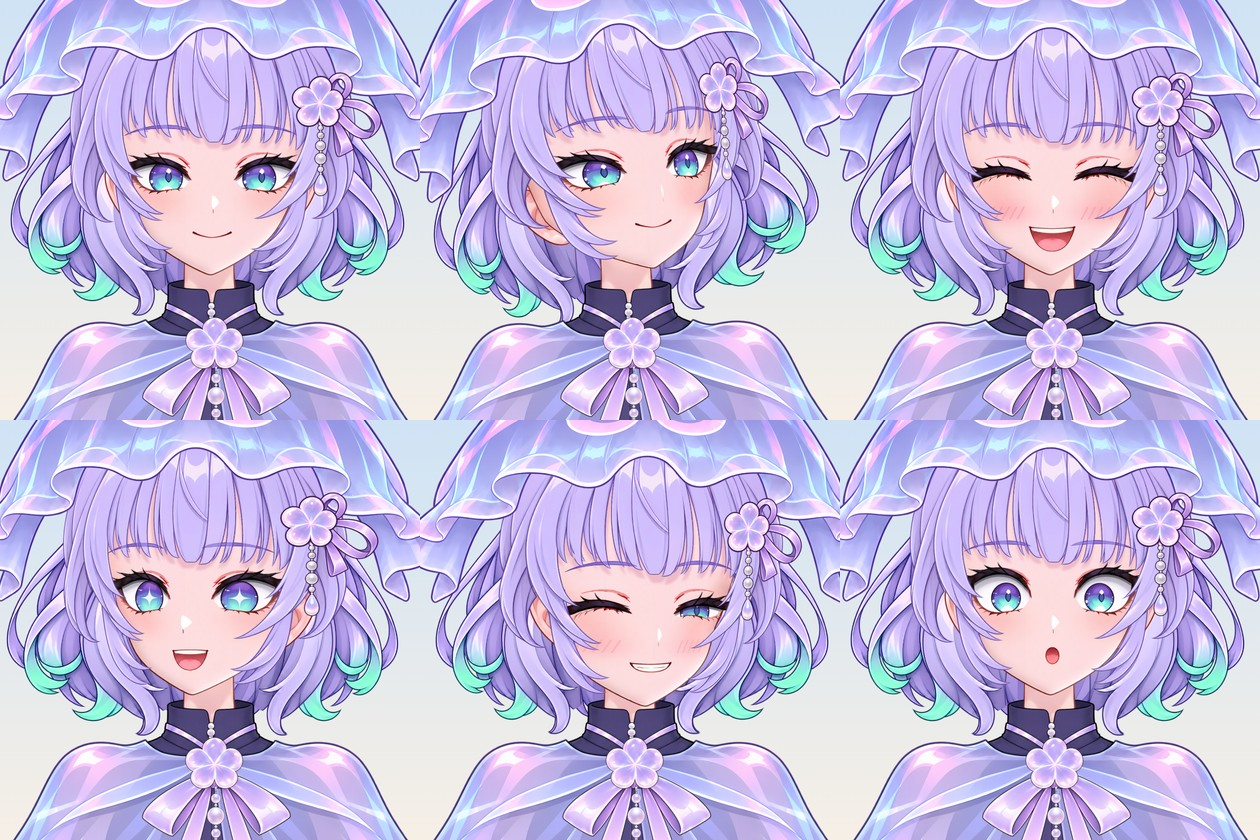
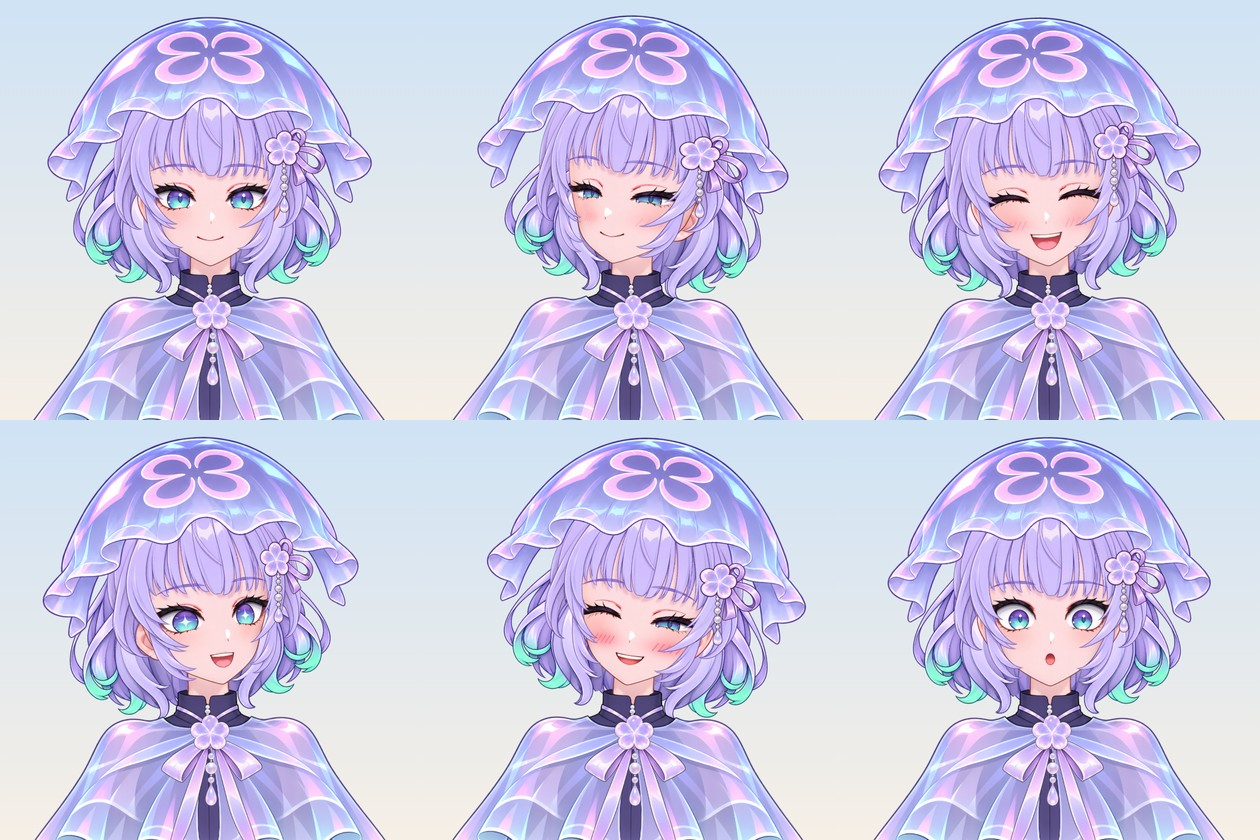
README を 2 体のモデルとデモに合わせて書き直し、説明の絵を撮り直す
- 先頭に、2 体が動いている絵（docs/images/demo.webp）と、ブラウザで試せるデモへのリンク
- 同梱のモデルの章（kurage02・chiwa）、モデルの切り替え、分かっている課題を今の状態に
- 画面写真と、表情の一覧を、今のモデルと画面で撮り直す
- 文書の「同梱は kurage02 だけ」という記述を、2 体用に直す
- ファイルを置くだけの場所（GitHub Pages）で動かすための .nojekyll

diff --git a/partsgen/README.md b/partsgen/README.md
@@ -14,6 +14,7 @@
 | `KNOWHOW.md` | 品質の基準、確認のしかた、失敗と直し方 |
 | `UPSCALER.md` | 拡大に使う Real-ESRGAN の用意 |
 | `chars/kurage02/` | 手本のキャラの設定（`char.json`）と、画像生成への指示文（`prompts/`） |
+| `chars/chiwa/` | 絵 1 枚から、この手順で最後まで通して作ったキャラの、設定・指示文と、作った記録（`NOTES.md`。見たこと・測った数字・決めた値と理由・つまずいた所） |
 | `chars/_template/` | 新しいキャラの出発点 |
 
 ## 要るもの
@@ -95,10 +96,11 @@ python3 -m venv .venv
 - 自分で作ったモデル・設定・起動用の bat（`models/<キャラ名>/`・`partsgen/chars/<キャラ名>/`・`start_<キャラ名>.bat`）は、`.gitignore` で git に入らないようにしてあります（このリポジトリを fork して公開しても、うっかり入らないように）。入れるときは `git add -f`。
 - 起動: `start_<キャラ名>.bat`（Windows）。どの OS でも `python tools/serve.py --model <キャラ名>`。
 - 設定と指示文: `partsgen/chars/<キャラ名>/`。作業フォルダ（既定 `%LOCALAPPDATA%\keshin2d_work\<キャラ名>`。上の「作業フォルダ」）は、作り直しに使うので消さずに残してください。
-- 同梱の `kurage02` は、モデル（`models/kurage02/`）と設定・指示文（`chars/kurage02/`）だけを入れてあります。元の絵と、描かせた絵（作業フォルダの中身）は入れていないので、`kurage02` を、このリポジトリだけから作り直すことはできません（設定と指示文の書き方の手本として使います）。
+- 同梱の `kurage02`・`chiwa` は、モデル（`models/<名前>/`）と設定・指示文（`chars/<名前>/`）だけを入れてあります。元の絵と、描かせた絵（作業フォルダの中身）は入れていないので、この 2 体を、このリポジトリだけから作り直すことはできません（設定と指示文の書き方の手本として使います）。
+- 画面の上の「モデルを選ぶ欄」には、`python tools/serve.py`（`start.bat`・`start.sh`）で開いていれば、自分で作ったモデルも、自動で出ます。サーバーを使わない置き方（GitHub Pages など）で出すときは、`models/index.json` に、名前と表示名を 1 行足します。
 
 ## 絵の権利について
 
 - 元にする絵は、自分が権利を持つ絵か、使う許可を得た絵にしてください。
 - 画像生成で描かせた絵の扱いは、使ったサービスの利用規約に従います。
-- 同梱の `kurage02`（モデル・設定・指示文）は、プログラムと同じ MIT です。手本にしても、そのまま使ってもかまいません。
+- 同梱の `kurage02`・`chiwa`（モデル・設定・指示文）は、プログラムと同じ MIT です。手本にしても、そのまま使ってもかまいません。

diff --git a/partsgen/KNOWHOW.md b/partsgen/KNOWHOW.md
@@ -1,7 +1,7 @@
 # ノウハウ集: 確認のしかた・守ること・失敗と直し方
 
 キャラを作る途中で「見たつもりで、見えていなかった」「直したつもりで、別の所が崩れた」出来事から来た決まりを、話題ごとに並べてある。手順そのものは `WORKFLOW.md`。
-文中のキャラ名（`kurage`・`tomari02`・`pink02`・`neon`・`chiwa` など）は、開発中に作ったキャラ（このリポジトリには入っていない）。`kurage02` は同梱の手本。
+文中のキャラ名（`kurage`・`tomari02`・`pink02`・`neon`・`hayate`・`kurochiwa` など）は、開発中に作ったキャラ（このリポジトリには入っていない）。`kurage02` は同梱の手本、`chiwa` は、絵 1 枚から通して作った同梱のモデル（記録は `partsgen/chars/chiwa/NOTES.md`）。
 
 - うまくいった**手順**は `WORKFLOW.md`（工程表・章・合格の目安）へ。**なぜそうするか・何を見落としたか**は、ここへ。1 行に、決まりと、そのもとになった出来事を書く（出来事が無い決まりは、守られない）。
 - 作り方を変えたら、専用の章を足すだけでなく、**工程表（`WORKFLOW.md` の段階 0〜8）・`MASTER_PROMPT.md`・ひな形（`chars/_template`）・合格の目安**の 4 か所を直す。指示文 1 つで通したとき、その作りになるように（キーの形の手順が、専用の章にしか無く、通すと古い作り方になっていたことがある）。

diff --git a/THIRD_PARTY_NOTICES.md b/THIRD_PARTY_NOTICES.md
@@ -1,8 +1,8 @@
 # 使わせてもらっている物 / Third-Party Notices
 
-このリポジトリの物は、下に挙げた物のほかは、どれも MIT License（[LICENSE](LICENSE)）です。同梱のモデル `kurage02`（`models/kurage02/` の絵と `model.json`）と、`docs/images/` の絵も含みます。
+このリポジトリの物は、下に挙げた物のほかは、どれも MIT License（[LICENSE](LICENSE)）です。同梱のモデル `kurage02`・`chiwa`（`models/kurage02/`・`models/chiwa/` の絵と `model.json`）と、`docs/images/` の絵も含みます。
 
-Everything in this repository other than the items listed below is under the MIT License ([LICENSE](LICENSE)), including the bundled `kurage02` model (the images and `model.json` in `models/kurage02/`) and the images in `docs/images/`.
+Everything in this repository other than the items listed below is under the MIT License ([LICENSE](LICENSE)), including the bundled `kurage02` and `chiwa` models (the images and `model.json` in `models/kurage02/` and `models/chiwa/`) and the images in `docs/images/`.
 
 ## このリポジトリに入っている物 / Included in this repository
 
